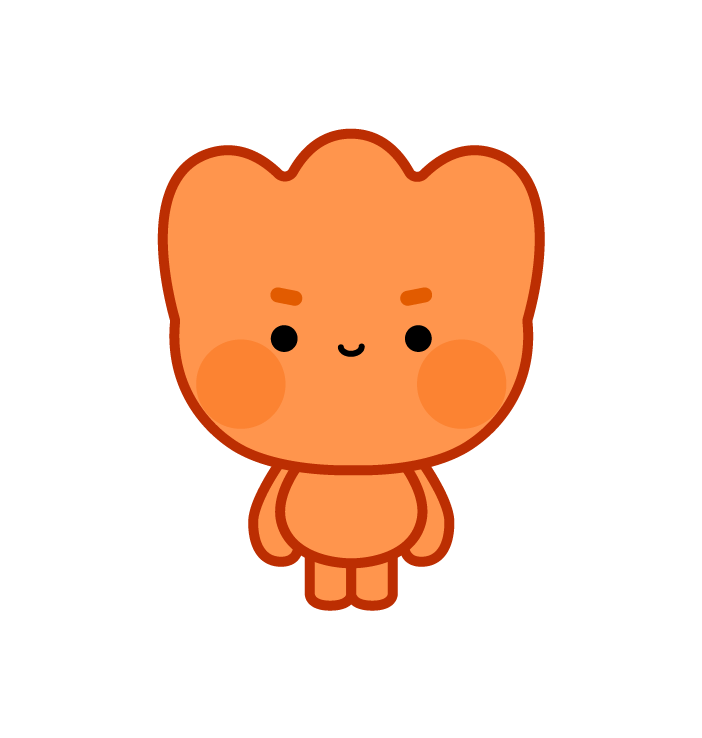
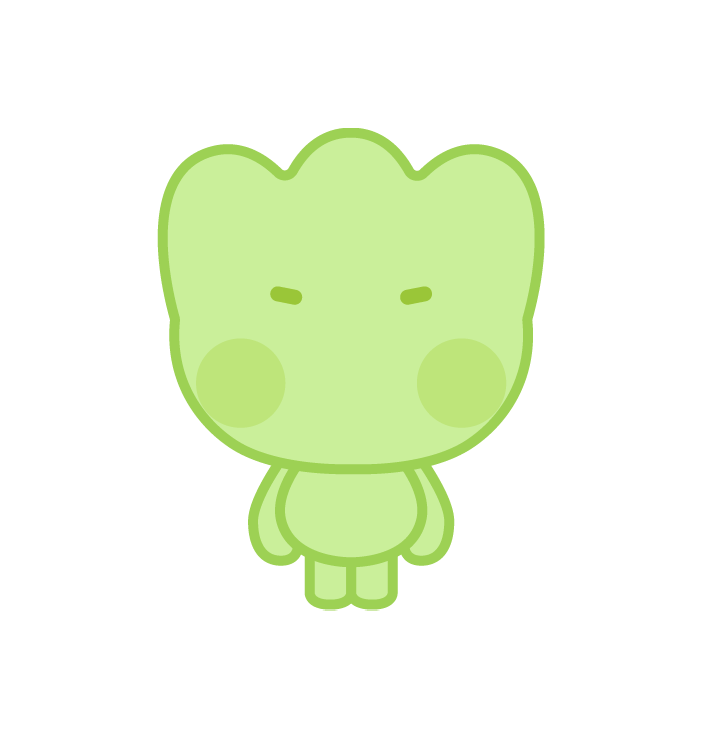
캐릭터 emotion 추가 / 파일 업데이트

Changed region(s): [[0.2094, 0.1558, 0.7778, 0.8415]]

diff --git a/src/components/CharacterContainer.js b/src/components/CharacterContainer.js
@@ -24,14 +24,14 @@ const CharacterContainer = () => {
   const equipAcc = isEquip?.find((e) => e.category === "acc");
   const equipEmotion = isEquip?.find((e) => e.category === "emotion");
   console.log("isEquip", isEquip);
-  console.log(
-    "equip확인",
-    isEquip,
-    equipBg?.itemImgUrl,
-    equipColor?.itemImgUrl,
-    equipClothes?.itemImgUrl,
-    equipAcc?.itemImgUrl
-  );
+  // console.log(
+  //   "equip확인",
+  //   isEquip,
+  //   equipBg?.itemImgUrl,
+  //   equipColor?.itemImgUrl,
+  //   equipClothes?.itemImgUrl,
+  //   equipAcc?.itemImgUrl
+  // );
 
   // 미리보기
   const preview = useSelector((state) => state.character);
@@ -40,14 +40,14 @@ const CharacterContainer = () => {
   const previewBg = useSelector((state) => state.character?.backgroundItem);
   const previewClothes = useSelector((state) => state.character?.clothesItem);
   const previewAcc = useSelector((state) => state.character?.accItem);
-  // const previewEmotion = useSelector((state) => state.character?.emotionItem);
+  const previewEmotion = useSelector((state) => state.character?.emotionItem);
 
   //Item 변경 할때 사용 하는 useState
   const [viewBody, setBody] = useState();
   const [viewBg, setBg] = useState();
   const [viewClothes, setClothes] = useState();
   const [viewAcc, setAcc] = useState();
-  // const [viewEmotion, setEmotion] = useState();
+  const [viewEmotion, setEmotion] = useState();
   // console.log("데이터?", viewBg, viewBody, viewClothes, viewAcc);
 
   const allList = useSelector((state) => state.character.allList);
@@ -58,18 +58,17 @@ const CharacterContainer = () => {
   const selectedBody = allList.find((e) => e.itemImgUrl === viewBody);
   const selectedAcc = allList.find((e) => e.itemImgUrl === viewClothes);
   const selectedClothes = allList.find((e) => e.itemImgUrl === viewAcc);
-  // const selectedEmotion = allList.find((e) => e.itemImgUrl === viewEmotion);
+  const selectedEmotion = allList.find((e) => e.itemImgUrl === viewEmotion);
   // console.log("현재바디", selectedBody);
 
   //자식 함수 접근하는 Ref
   const modalRef = useRef();
   React.useEffect(() => {
-    // dispatch(characterActions.getItemDB());
     setBody(equipColor?.itemImgUrl);
     setBg(equipBg?.itemImgUrl);
     setClothes(equipClothes?.itemImgUrl);
     setAcc(equipAcc?.itemImgUrl);
-    // setEmotion(equipEmotion?.itemImgUrl);
+    setEmotion(equipEmotion?.itemImgUrl);
   }, [equipColor?.itemImgUrl]);
 
   React.useEffect(() => {
@@ -85,9 +84,9 @@ const CharacterContainer = () => {
     if (previewAcc) {
       setAcc(previewAcc);
     }
-    // if (previewEmotion) {
-    //   setAcc(previewEmotion);
-    // }
+    if (previewEmotion) {
+      setAcc(previewEmotion);
+    }
   }, [preview]);
 
   const saveButton = () => {
@@ -96,10 +95,9 @@ const CharacterContainer = () => {
       selectedBg?.isOwned &&
       selectedBody?.isOwned &&
       selectedAcc?.isOwned &&
-      // selectedEmotion?.isOwned &&
+      selectedEmotion?.isOwned &&
       selectedClothes?.isOwned
     ) {
-      // history.push("/charactersave");
       modalRef.current.purchase();
     } else {
       modalRef.current.account();
@@ -114,9 +112,9 @@ const CharacterContainer = () => {
         <ImgContainer>
           <ItemImg src={Item + viewBg} alt={viewBg}></ItemImg>
           <ItemImg src={Item + viewBody} alt={viewBody}></ItemImg>
-          {/* <ItemImg src={Item + viewEmotion} alt={viewEmotion}></ItemImg> */}
           <ItemImg src={Item + viewClothes} alt={viewClothes}></ItemImg>
           <ItemImg src={Item + viewAcc} alt={viewAcc}></ItemImg>
+          <ItemImg src={Item + viewEmotion} alt={viewEmotion}></ItemImg>
         </ImgContainer>
       )}
       <Button
@@ -138,7 +136,7 @@ const CharacterContainer = () => {
       >
         {selectedBg?.isOwned &&
         selectedBody?.isOwned &&
-        // selectedEmotion?.isOwned &&
+        selectedEmotion?.isOwned &&
         selectedAcc?.isOwned &&
         selectedClothes?.isOwned
           ? "저장하기"

diff --git a/src/components/ItemBox.js b/src/components/ItemBox.js
@@ -27,7 +27,7 @@ const ItemBox = () => {
   const previewBg = useSelector((state) => state.character?.backgroundItem);
   const previewClothes = useSelector((state) => state.character?.clothesItem);
   const previewAcc = useSelector((state) => state.character?.accItem);
-  // const previewEmotion = useSelector((state) => state.character?.emotionItem);
+  const previewEmotion = useSelector((state) => state.character?.emotionItem);
 
   const Item = process.env.PUBLIC_URL + "/items/small";
   const [item, setItem] = React.useState(null);
@@ -55,13 +55,13 @@ const ItemBox = () => {
         setItem(previewAcc);
       }
     }
-    // if (category === "emotion") {
-    //   if (preview.emotionItem === null) {
-    //     setItem(isEquip?.itemImgUrl);
-    //   } else {
-    //     setItem(previewEmotion);
-    //   }
-    // }
+    if (category === "emotion") {
+      if (preview.emotionItem === null) {
+        setItem(isEquip?.itemImgUrl);
+      } else {
+        setItem(previewEmotion);
+      }
+    }
   }, [category]);
 
   // CharacterContainer에 반영하기 위한 작업
@@ -119,8 +119,14 @@ const ItemBox = () => {
                   // <LockImg />
                 )}
               </div>
-              <div>{e.itemName}</div>
-              <div>{e.price}</div>
+              {i !== 0 ? (
+                <>
+                  <div>{e.itemName}</div>
+                  <div>{e.price}</div>
+                </>
+              ) : (
+                ""
+              )}
             </div>
           </OneItem>
         ))}

diff --git a/src/components/ItemCircle.js b/src/components/ItemCircle.js
@@ -41,14 +41,14 @@ const ItemCircle = () => {
   }, [item]);
 
   const color = [
+    ["/color_00.png", "#FF954D"],
     ["/color_01.png", "#FFF16C"],
-    ["/color_02.png", "#C7FFE0"],
-    ["/color_03.png", "#D7C5FF"],
-    ["/color_04.png", "#FFC0C0"],
-    ["/color_05.png", "#FF954D"],
+    ["/color_02.png", "#FFC0C0"],
+    ["/color_03.png", "#FF6666"],
+    ["/color_04.png", "#C7FFE0"],
+    ["/color_05.png", "#CAEF9A"],
     ["/color_06.png", "#8CD6F4"],
-    ["gray", "#9C9C9C"],
-    ["gray", "#9C9C9C"],
+    ["/color_07.png", "#D7C5FF"],
   ];
 
   return (
